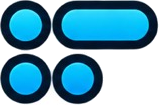
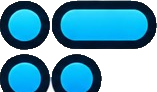
Remove white sprite halos

diff --git a/docs/index.html b/docs/index.html
@@ -18,13 +18,13 @@
         <div><strong>MorseReceive</strong><span>Listen. Copy. Improve.</span></div>
       </div>
       <nav class="side-nav" aria-label="Primary navigation">
-        <button class="nav-item active" data-view="practice"><span class="nav-icon" aria-hidden="true"><img src="assets/nav-icons/practice.png?v=3" alt=""></span><span class="nav-label">Practice</span></button>
-        <button class="nav-item" data-view="listen-only"><span class="nav-icon" aria-hidden="true"><img src="assets/nav-icons/zen.png?v=3" alt=""></span><span class="nav-label">Zen Mode</span></button>
-        <button class="nav-item" data-view="progress"><span class="nav-icon" aria-hidden="true"><img src="assets/nav-icons/progress.png?v=3" alt=""></span><span class="nav-label">Progress</span></button>
-        <button class="nav-item" data-view="alphabet"><span class="nav-icon" aria-hidden="true"><img src="assets/nav-icons/alphabet.png?v=3" alt=""></span><span class="nav-label">Morse Code Alphabet</span></button>
-        <button class="nav-item" data-view="sending"><span class="nav-icon" aria-hidden="true"><img src="assets/nav-icons/sending.png?v=3" alt=""></span><span class="nav-label">Sending</span></button>
-        <button class="nav-item" data-view="settings"><span class="nav-icon" aria-hidden="true"><img src="assets/nav-icons/settings.png?v=3" alt=""></span><span class="nav-label">Settings</span></button>
-        <button class="nav-item" data-view="account"><span class="nav-icon" aria-hidden="true"><img src="assets/nav-icons/account.png?v=3" alt=""></span><span class="nav-label">Account</span></button>
+        <button class="nav-item active" data-view="practice"><span class="nav-icon" aria-hidden="true"><img src="assets/nav-icons/practice.png?v=5" alt=""></span><span class="nav-label">Practice</span></button>
+        <button class="nav-item" data-view="listen-only"><span class="nav-icon" aria-hidden="true"><img src="assets/nav-icons/zen.png?v=5" alt=""></span><span class="nav-label">Zen Mode</span></button>
+        <button class="nav-item" data-view="progress"><span class="nav-icon" aria-hidden="true"><img src="assets/nav-icons/progress.png?v=5" alt=""></span><span class="nav-label">Progress</span></button>
+        <button class="nav-item" data-view="alphabet"><span class="nav-icon" aria-hidden="true"><img src="assets/nav-icons/alphabet.png?v=5" alt=""></span><span class="nav-label">Morse Code Alphabet</span></button>
+        <button class="nav-item" data-view="sending"><span class="nav-icon" aria-hidden="true"><img src="assets/nav-icons/sending.png?v=5" alt=""></span><span class="nav-label">Sending</span></button>
+        <button class="nav-item" data-view="settings"><span class="nav-icon" aria-hidden="true"><img src="assets/nav-icons/settings.png?v=5" alt=""></span><span class="nav-label">Settings</span></button>
+        <button class="nav-item" data-view="account"><span class="nav-icon" aria-hidden="true"><img src="assets/nav-icons/account.png?v=5" alt=""></span><span class="nav-label">Account</span></button>
       </nav>
       <div class="sidebar-note">Train your ear one clean character at a time.</div>
     </aside>

diff --git a/index.html b/index.html
@@ -18,13 +18,13 @@
         <div><strong>MorseReceive</strong><span>Listen. Copy. Improve.</span></div>
       </div>
       <nav class="side-nav" aria-label="Primary navigation">
-        <button class="nav-item active" data-view="practice"><span class="nav-icon" aria-hidden="true"><img src="assets/nav-icons/practice.png?v=3" alt=""></span><span class="nav-label">Practice</span></button>
-        <button class="nav-item" data-view="listen-only"><span class="nav-icon" aria-hidden="true"><img src="assets/nav-icons/zen.png?v=3" alt=""></span><span class="nav-label">Zen Mode</span></button>
-        <button class="nav-item" data-view="progress"><span class="nav-icon" aria-hidden="true"><img src="assets/nav-icons/progress.png?v=3" alt=""></span><span class="nav-label">Progress</span></button>
-        <button class="nav-item" data-view="alphabet"><span class="nav-icon" aria-hidden="true"><img src="assets/nav-icons/alphabet.png?v=3" alt=""></span><span class="nav-label">Morse Code Alphabet</span></button>
-        <button class="nav-item" data-view="sending"><span class="nav-icon" aria-hidden="true"><img src="assets/nav-icons/sending.png?v=3" alt=""></span><span class="nav-label">Sending</span></button>
-        <button class="nav-item" data-view="settings"><span class="nav-icon" aria-hidden="true"><img src="assets/nav-icons/settings.png?v=3" alt=""></span><span class="nav-label">Settings</span></button>
-        <button class="nav-item" data-view="account"><span class="nav-icon" aria-hidden="true"><img src="assets/nav-icons/account.png?v=3" alt=""></span><span class="nav-label">Account</span></button>
+        <button class="nav-item active" data-view="practice"><span class="nav-icon" aria-hidden="true"><img src="assets/nav-icons/practice.png?v=5" alt=""></span><span class="nav-label">Practice</span></button>
+        <button class="nav-item" data-view="listen-only"><span class="nav-icon" aria-hidden="true"><img src="assets/nav-icons/zen.png?v=5" alt=""></span><span class="nav-label">Zen Mode</span></button>
+        <button class="nav-item" data-view="progress"><span class="nav-icon" aria-hidden="true"><img src="assets/nav-icons/progress.png?v=5" alt=""></span><span class="nav-label">Progress</span></button>
+        <button class="nav-item" data-view="alphabet"><span class="nav-icon" aria-hidden="true"><img src="assets/nav-icons/alphabet.png?v=5" alt=""></span><span class="nav-label">Morse Code Alphabet</span></button>
+        <button class="nav-item" data-view="sending"><span class="nav-icon" aria-hidden="true"><img src="assets/nav-icons/sending.png?v=5" alt=""></span><span class="nav-label">Sending</span></button>
+        <button class="nav-item" data-view="settings"><span class="nav-icon" aria-hidden="true"><img src="assets/nav-icons/settings.png?v=5" alt=""></span><span class="nav-label">Settings</span></button>
+        <button class="nav-item" data-view="account"><span class="nav-icon" aria-hidden="true"><img src="assets/nav-icons/account.png?v=5" alt=""></span><span class="nav-label">Account</span></button>
       </nav>
       <div class="sidebar-note">Train your ear one clean character at a time.</div>
     </aside>
